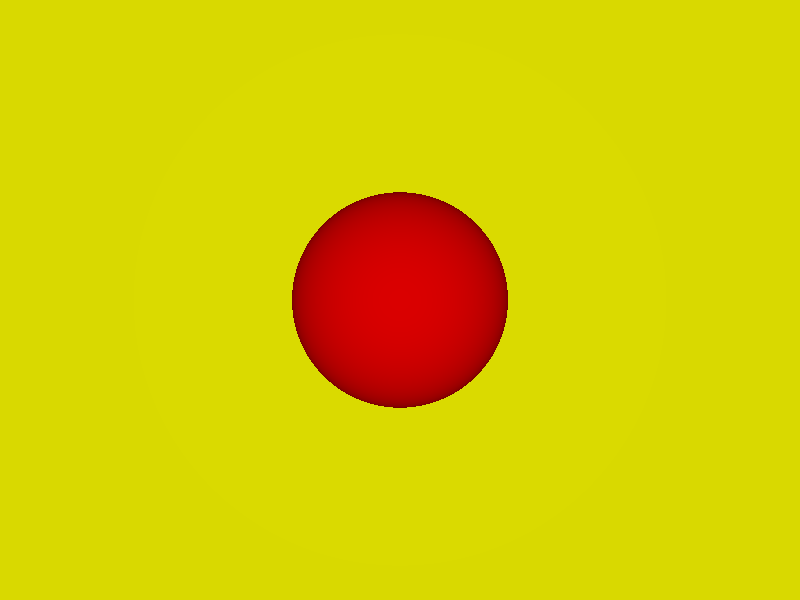
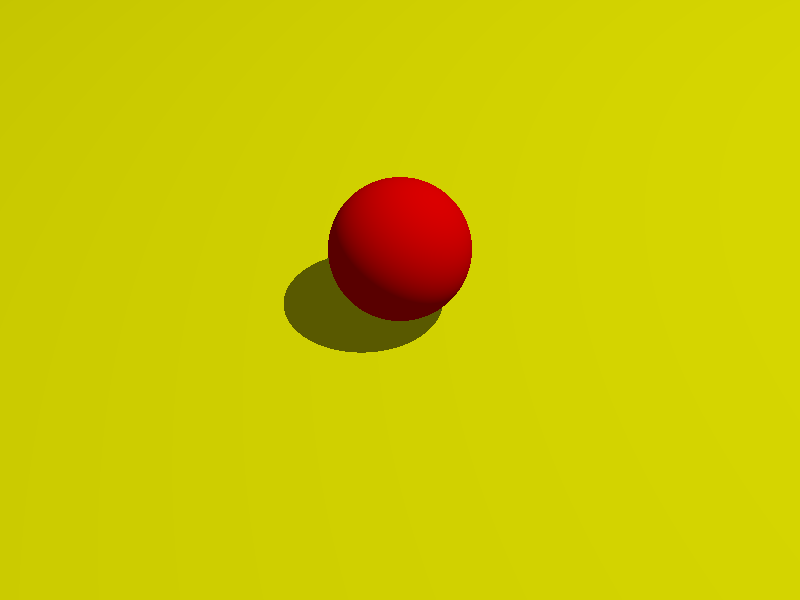
Blinn-Phong Illumination Model Fix Camera Up vector once again Add __neg__ dunder method to Vec3 class

Changed region(s): [[0.3438, 0.3, 0.6562, 0.69]]

diff --git a/PovRay/src/povview/tracer.py b/PovRay/src/povview/tracer.py
@@ -10,7 +10,6 @@ from povview.math.color import RGB
 from povview.elements.objects.base import Object3D
 from povview.elements.light_source import LightSource
 from povview.elements.camera import Camera
-from povview.elements.objects.box import Box
 from povview.utils.utils import setup_goocanvas, timer
 
 setup_goocanvas()
@@ -19,7 +18,15 @@ from gi.repository import GooCanvas, GdkPixbuf
 MAX_BOUNCES = 1
 LIGHT_SOURCE_SIZE = 100000
 RAYS_CASTS_PER_PIXEL = 1
-AMBIENT = 0.1
+
+# LIGHTING
+AMBIENT = RGB(0.5)
+SHININESS = 64
+
+# WEIGHTS
+AMBIENT_WEIGHT = 0.3
+DIFFUSE_WEIGHT = 0.4
+SPECULAR_WEIGHT = 0.4
 
 
 class Tracer:
@@ -86,8 +93,6 @@ class Tracer:
             ray.origin = ray.at(hit.t)
             # ray.direction = (hit.normal + Vec3.random_direction()).normalized()
             ray.direction = Vec3.random_hemisphere_direction(hit.normal)
-            if isinstance(hit.obj, Box):
-                print(f"Path Depth: {i+1} - {hit.normal}")
 
             if isinstance(hit.obj, LightSource):
                 incoming_light += hit.obj.color * ray_color
@@ -101,19 +106,35 @@ class Tracer:
         hit = self.ray_collision(ray)
         if hit is None:
             return RGB(0)
-        return self.calculate_light(ray, hit)
+        return self.calculate_lighting(ray, hit)
 
-    def calculate_light(self, ray, hit):
-        incoming_light = hit.obj.color * RGB(AMBIENT)
+    def calculate_lighting(self, ray, hit):
+        diffuse = RGB(0)
+        specular = RGB(0)
+
+        view_vector = -ray.direction
+
         for light in self.lights:
-            light_ray = Ray(
-                light.location, (ray.at(hit.t) - light.location).normalized()
-            )
+            light_vector = (light.location - ray.at(hit.t)).normalized()
+            halfway_vector = (view_vector + light_vector).normalized()
+
+            light_ray = Ray(light.location, -light_vector)
             light_hit = self.ray_collision(light_ray)
+
             if light_ray.at(light_hit.t).round(6) == ray.at(hit.t).round(6):
-                cos1 = hit.normal.dot((light.location - ray.at(hit.t)).normalized())
-                incoming_light += hit.obj.color * light.color * cos1
-        return incoming_light.limit()
+                diffuse_strength = max(0, hit.normal.dot(light_vector))
+                diffuse += diffuse_strength * light.color
+
+                specular_strength = max(0, hit.normal.dot(halfway_vector)) ** SHININESS
+                specular += specular_strength * light.color
+
+        lighting = (
+            AMBIENT * AMBIENT_WEIGHT
+            + diffuse * DIFFUSE_WEIGHT
+            + specular * SPECULAR_WEIGHT
+        )
+
+        return hit.obj.color * lighting
 
     def trace(self, ray):
         match self.model:

diff --git a/PovRay/src/povview/elements/camera.py b/PovRay/src/povview/elements/camera.py
@@ -1,5 +1,5 @@
 from povview.math.vector import Vec3
-from povview.math.utils import handle_value
+from povview.math.utils import handle_value, sign
 
 
 class Camera:
@@ -9,13 +9,14 @@ class Camera:
 
         self.forward = Vec3(self.look_at - self.location).normalized()
 
-        self.up = Vec3(0, 1, 0)
-        self.right = self.forward.cross(self.up).normalized()
+        global_up = Vec3(0, 1, 0)
+        self.right = self.forward.cross(global_up).normalized()
         if self.right == Vec3(0, 0, 0):
-            self.up = Vec3(0, 0, -1)
+            global_up = Vec3(0, 0, -1)
             self.right = self.forward.cross(self.up).normalized()
 
-        self.up = self.forward.cross(self.right).normalized().inverted()
+        up = self.forward.cross(self.right).normalized()
+        self.up = up * -sign(up.dot(global_up))
 
         self.angle = camera_data["angle"]
 

diff --git a/PovRay/src/povview/elements/light_source.py b/PovRay/src/povview/elements/light_source.py
@@ -7,6 +7,7 @@ from povview.elements.objects.box import Box
 
 class LightSource(Box):
     def __init__(self, light_data):
+        self._subdiv = None
         self.location = Vec3(handle_value(light_data["location"]))
         self.color = RGB(
             light_data["color"]["r"], light_data["color"]["g"], light_data["color"]["b"]
@@ -17,6 +18,8 @@ class LightSource(Box):
 
         self.create_wireframe()
         self.bounding_box = BoundingBox(self.vertices)
+        
+        self.faces = self.generate_faces()
 
     def __str__(self):
         return f"LightSource(position={self.location}, color={self.color})"

diff --git a/PovRay/src/povview/math/tracing.py b/PovRay/src/povview/math/tracing.py
@@ -17,7 +17,7 @@ class Ray:
         assert isinstance(direction, Vec3)
 
         self.origin = origin
-        self.direction = direction
+        self.direction = direction.normalized()
 
     def __str__(self):
         return f"Ray(origin: {self.origin}, direction: {self.direction})"

diff --git a/PovRay/src/trace.py b/PovRay/src/trace.py
@@ -8,7 +8,7 @@ def main(args):
         parsed_file["lights"],
         parsed_file["cameras"][0],
         parsed_file["objects"],
-        (800, 600),
+        (1920, 1080),
         model="ray_tracer" if not int(args[2]) else "path_tracer",
     )
     tracer.trace_scene()

diff --git a/PovRay/src/povview/math/vector.py b/PovRay/src/povview/math/vector.py
@@ -109,6 +109,9 @@ class Vec3:
     def __repr__(self):
         return self.__str__()
 
+    def __neg__(self):
+        return Vec3(-self._x, -self._y, -self._z)
+
     def __getitem__(self, index):
         return [self._x, self._y, self._z][index]
 
